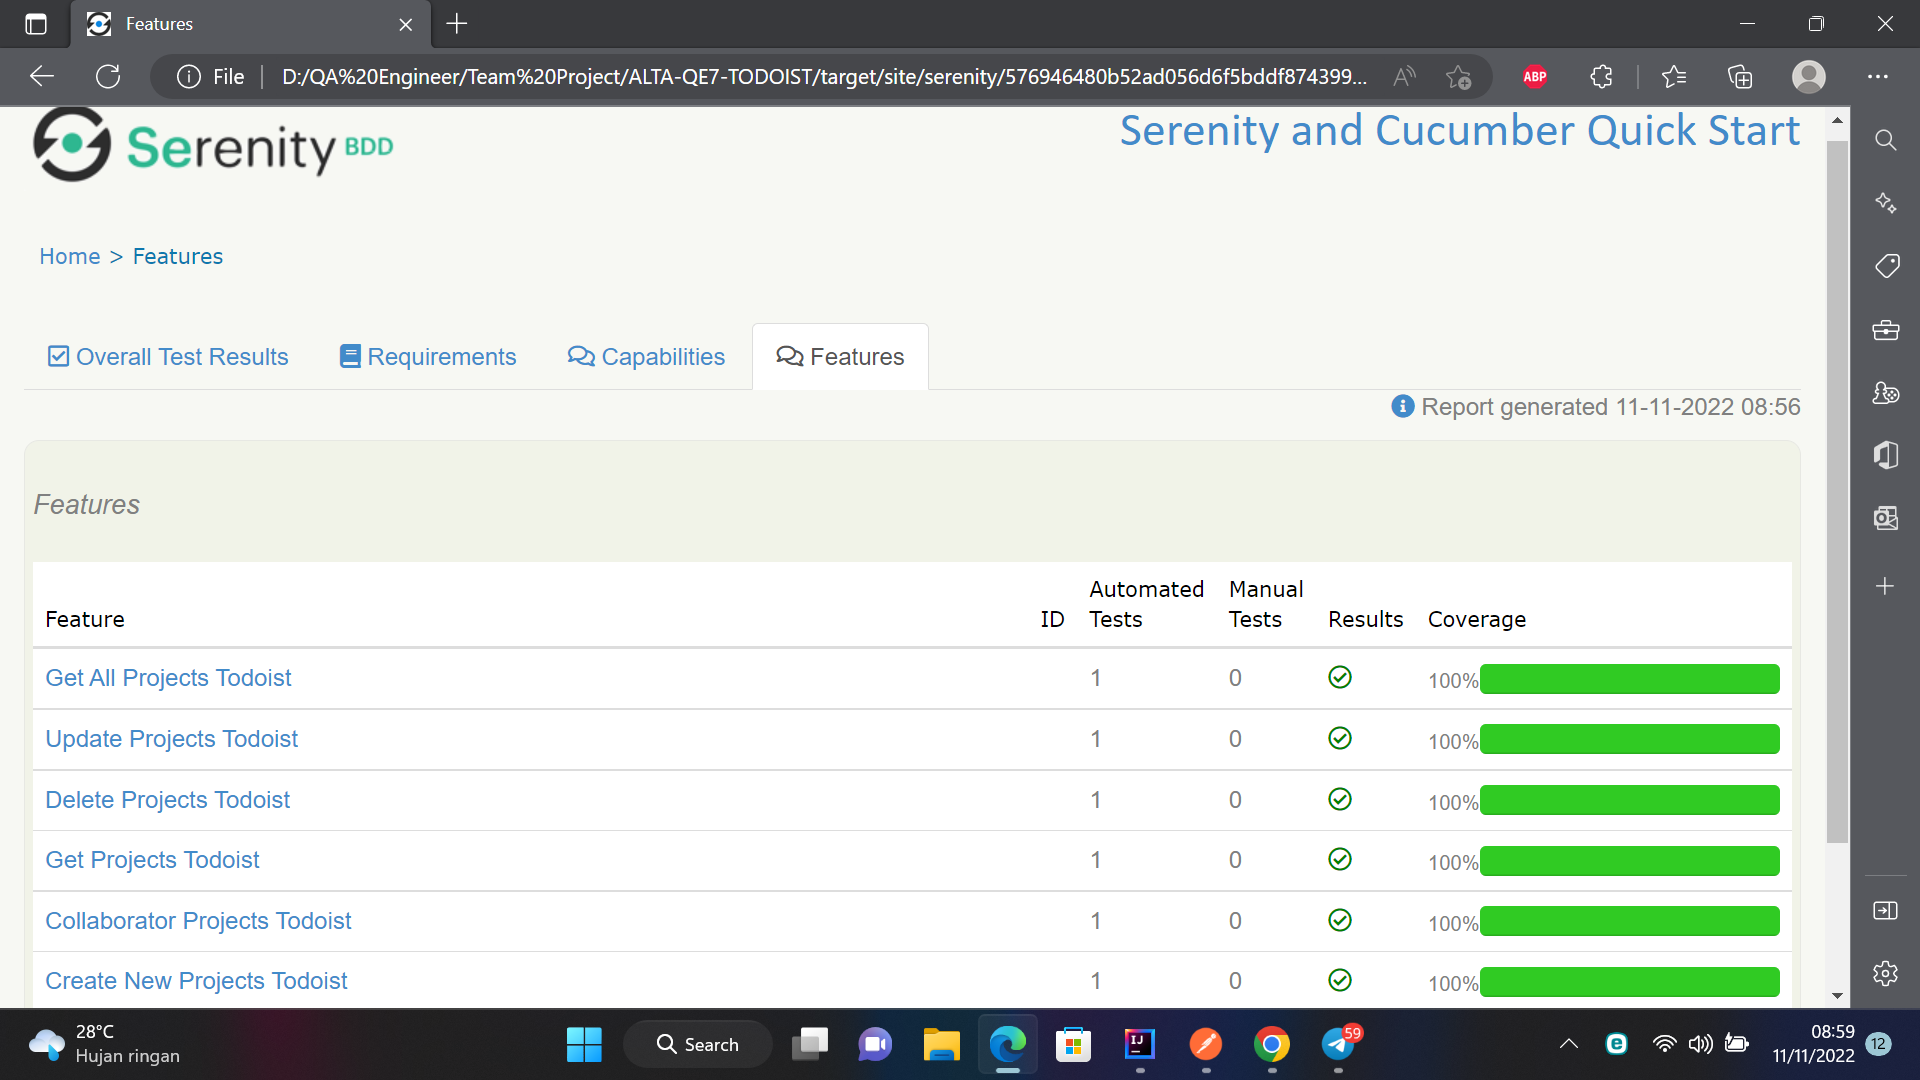
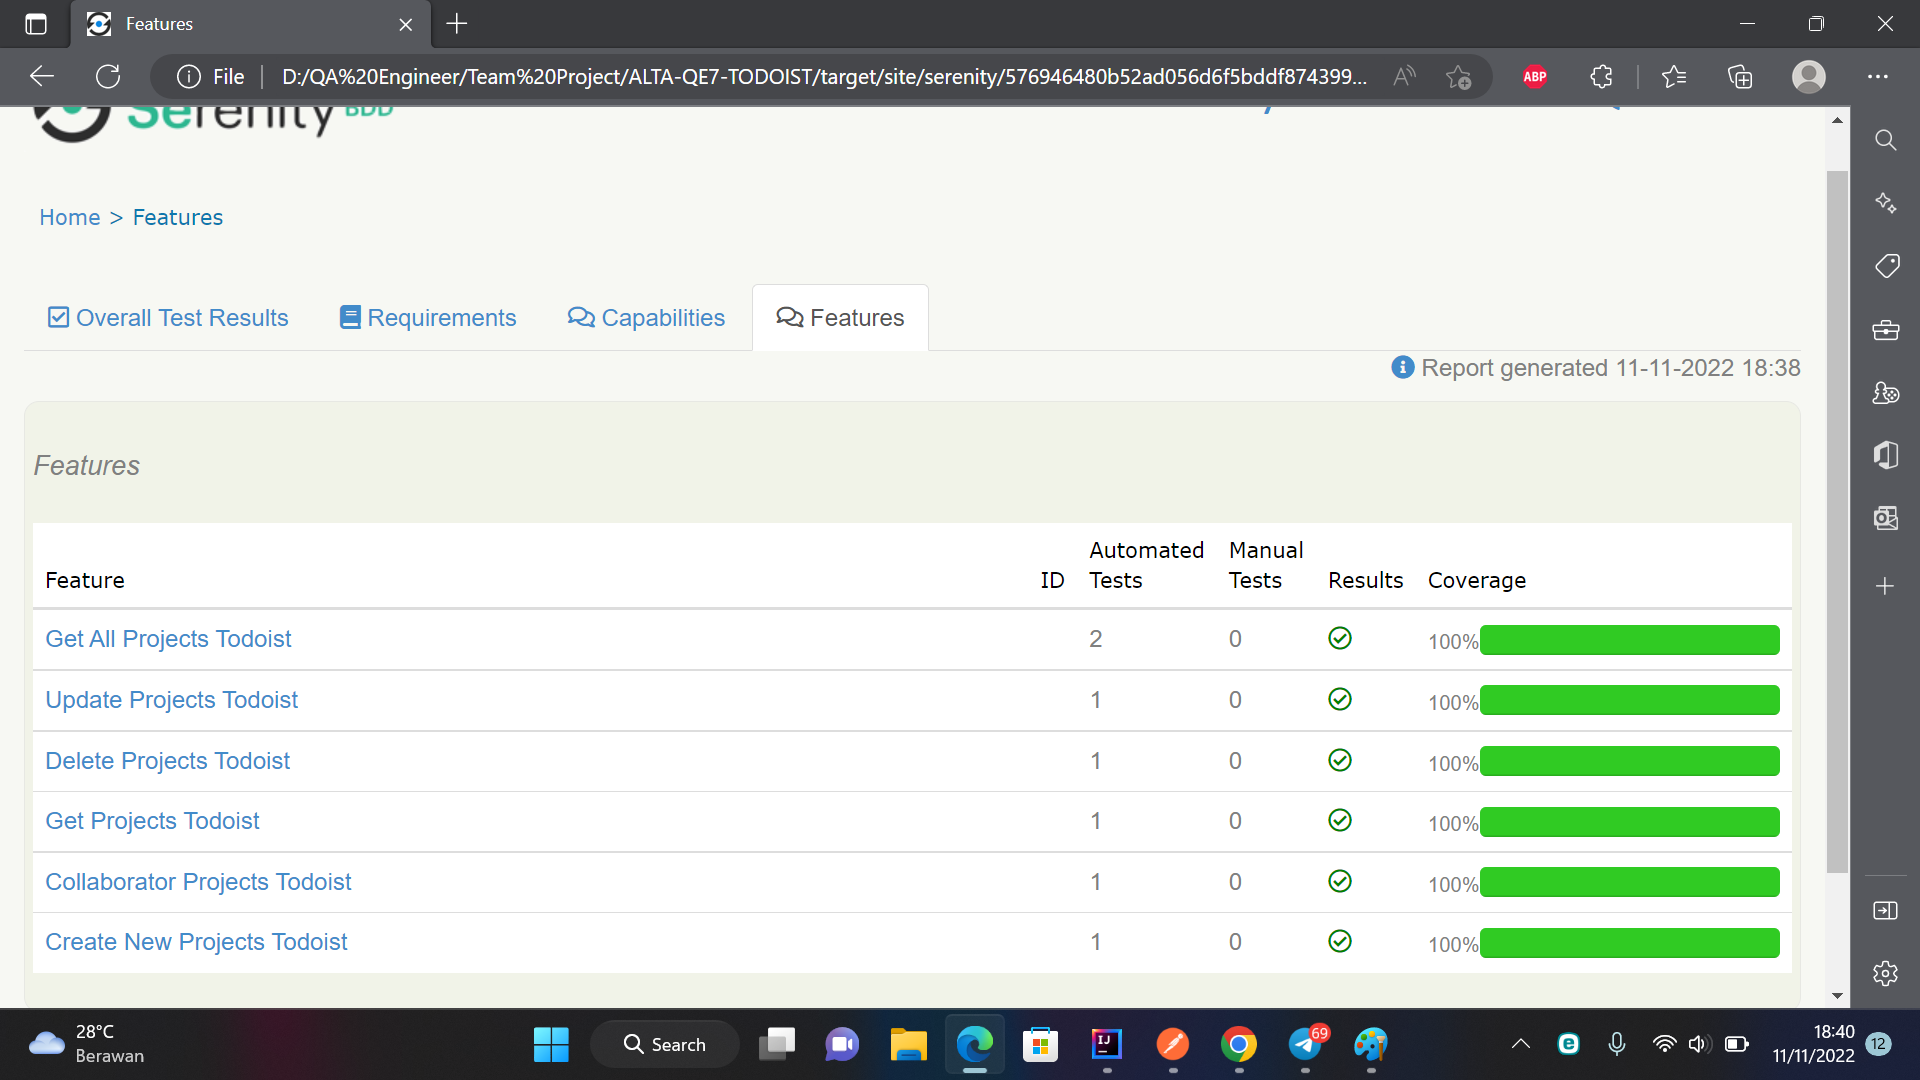
Update Negative Case Get

diff --git a/src/test/java/starter/CucumberTestSuite.java b/src/test/java/starter/CucumberTestSuite.java
@@ -7,7 +7,7 @@ import org.junit.runner.RunWith;
 
 @RunWith(CucumberWithSerenity.class)
 @CucumberOptions(
-        tags = "@PositiveCase",
+        tags = "@PositiveCase or @NegativeCase",
         plugin = {"pretty"},
         features = "classpath:features"
 
